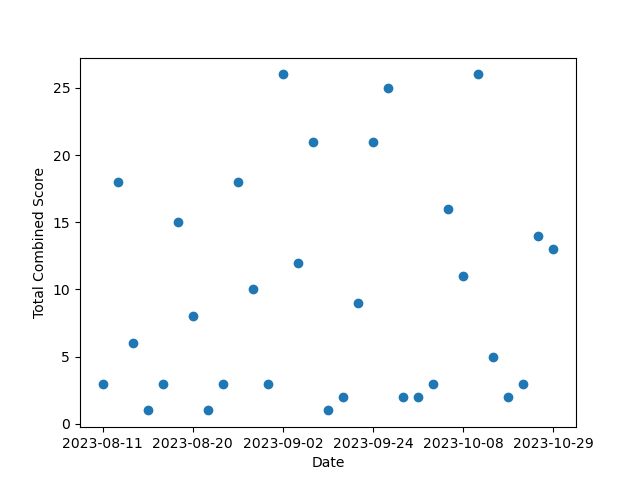
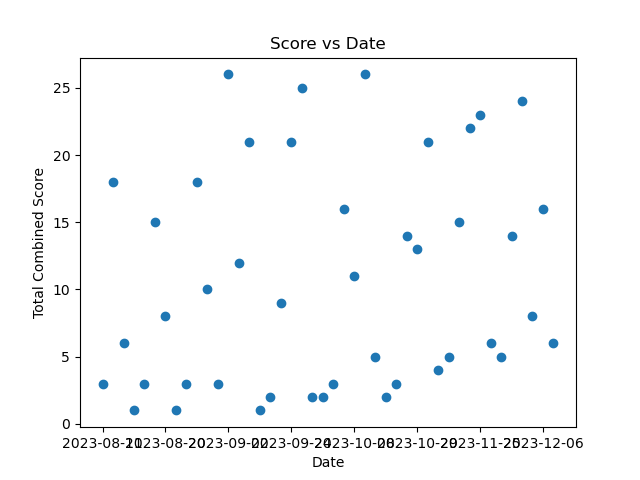
saves all graphs

diff --git a/places.py b/places.py
@@ -1,5 +1,4 @@
 import os
-import os
 import requests
 import sqlite3
 
@@ -9,6 +8,7 @@ DATABASE = 'fb_scores.db'
 LOC_KEYS_TABLE = 'Loc_Keys'
 SCORES_TABLE = 'Scores'
 NEW_TABLE = 'Game_Locations'
+BATCH_SIZE = 25  # Limit to 25 rows per run
 
 
 def setup_database():
@@ -34,12 +34,7 @@ def setup_database():
 def get_coordinates(city_name):
     """Fetch coordinates for a city using Google Places API."""
     url = "https://maps.googleapis.com/maps/api/place/findplacefromtext/json"
-
-def get_coordinates(city_name):
-    """Fetch coordinates for a city using Google Places API."""
-    url = "https://maps.googleapis.com/maps/api/place/findplacefromtext/json"
     params = {
-        'input': city_name,
         'input': city_name,
         'inputtype': 'textquery',
         'fields': 'geometry',
@@ -59,37 +54,29 @@ def get_coordinates(city_name):
 
     except requests.exceptions.RequestException as e:
         print(f"Request exception for '{city_name}': {e}")
-        if data['status'] == 'OK' and data['candidates']:
-            location = data['candidates'][0]['geometry']['location']
-            return location['lat'], location['lng']
-        else:
-            print(f"Error fetching data for '{city_name}': {data.get('status', 'No status')}")
-            return None, None
-
-    except requests.exceptions.RequestException as e:
-        print(f"Request exception for '{city_name}': {e}")
         return None, None
 
 
 def process_game_locations():
-    """Create game locations with latitude and longitude."""
+    """Create game locations with latitude and longitude, processing in batches."""
     conn = sqlite3.connect(DATABASE)
     cursor = conn.cursor()
 
-    # Fetch data from Scores and Loc_Keys tables
+    # Fetch data from Scores and Loc_Keys tables, limiting to BATCH_SIZE (25)
     cursor.execute(f'''
         SELECT s.game_num, s.date, l.location
         FROM {SCORES_TABLE} s
         JOIN {LOC_KEYS_TABLE} l ON s.location = l.id
+        WHERE s.game_num NOT IN (SELECT game_num FROM {NEW_TABLE})
+        LIMIT {BATCH_SIZE}
     ''')
     games = cursor.fetchall()
 
     if not games:
-        print("No game data found.")
+        print("No new game data to process.")
         conn.close()
         return
 
-    # Process and fetch coordinates for each game
     for game_num, date_id, city_name in games:
         print(f"Fetching coordinates for '{city_name}'...")
         latitude, longitude = get_coordinates(city_name)
@@ -111,8 +98,8 @@ def process_game_locations():
 
 def main():
     """Main entry point."""
-    setup_database()  # Ensure the new table exists
-    process_game_locations()  # Populate the new game locations table
+    setup_database()
+    process_game_locations()
 
 
 if __name__ == "__main__":

diff --git a/avgtempgraph.py b/avgtempgraph.py
@@ -1,0 +1,50 @@
+import sqlite3
+import matplotlib.pyplot as plt
+import os
+
+def setup_db_connection(db_name):
+    """Establish a connection to the SQLite database."""
+    path = os.path.dirname(os.path.abspath(__file__))
+    conn = sqlite3.connect(path + "/" + db_name)
+    cur = conn.cursor()
+    return cur, conn
+
+def get_avg_temperatures(cur):
+    """Fetch average temperatures for each location."""
+    query = '''
+    SELECT l.location, AVG(w.temperature)
+    FROM Weather w
+    JOIN Game_Locations g ON w.game_id = g.game_num
+    JOIN Scores s ON s.game_num = g.game_num
+    JOIN Loc_Keys l ON s.location = l.id
+    GROUP BY l.location
+    ORDER BY AVG(w.temperature) DESC;
+    '''
+    cur.execute(query)
+    return cur.fetchall()
+
+def plot_avg_temperatures(data):
+    """Plot average temperatures for each location."""
+    locations = [row[0] for row in data]
+    temperatures = [row[1] for row in data]
+
+    plt.figure(figsize=(12, 6))
+    plt.barh(locations, temperatures)
+    plt.xlabel('Average Temperature (°F)')
+    plt.ylabel('Location')
+    plt.title('Average Temperature for Each Location')
+    plt.tight_layout()
+    plt.savefig('temp_for_location.png') 
+    plt.show()
+
+def main():
+    cur, conn = setup_db_connection("fb_scores.db")
+    data = get_avg_temperatures(cur)
+    if data:
+        plot_avg_temperatures(data)
+    else:
+        print("No data found.")
+    conn.close()
+
+if __name__ == "__main__":
+    main()

diff --git a/visualisations.py b/visualisations.py
@@ -41,6 +41,7 @@ ax.set_xlabel("Date")
 #makes it so you only view every 6th tickmark for readability
 ax.set_xticks(days[::6])
 ax.set_ylabel("Total Combined Score")
+ax.set_title('Score vs Date')
 plt.savefig('score_vs_date.png') 
 plt.show()
 
